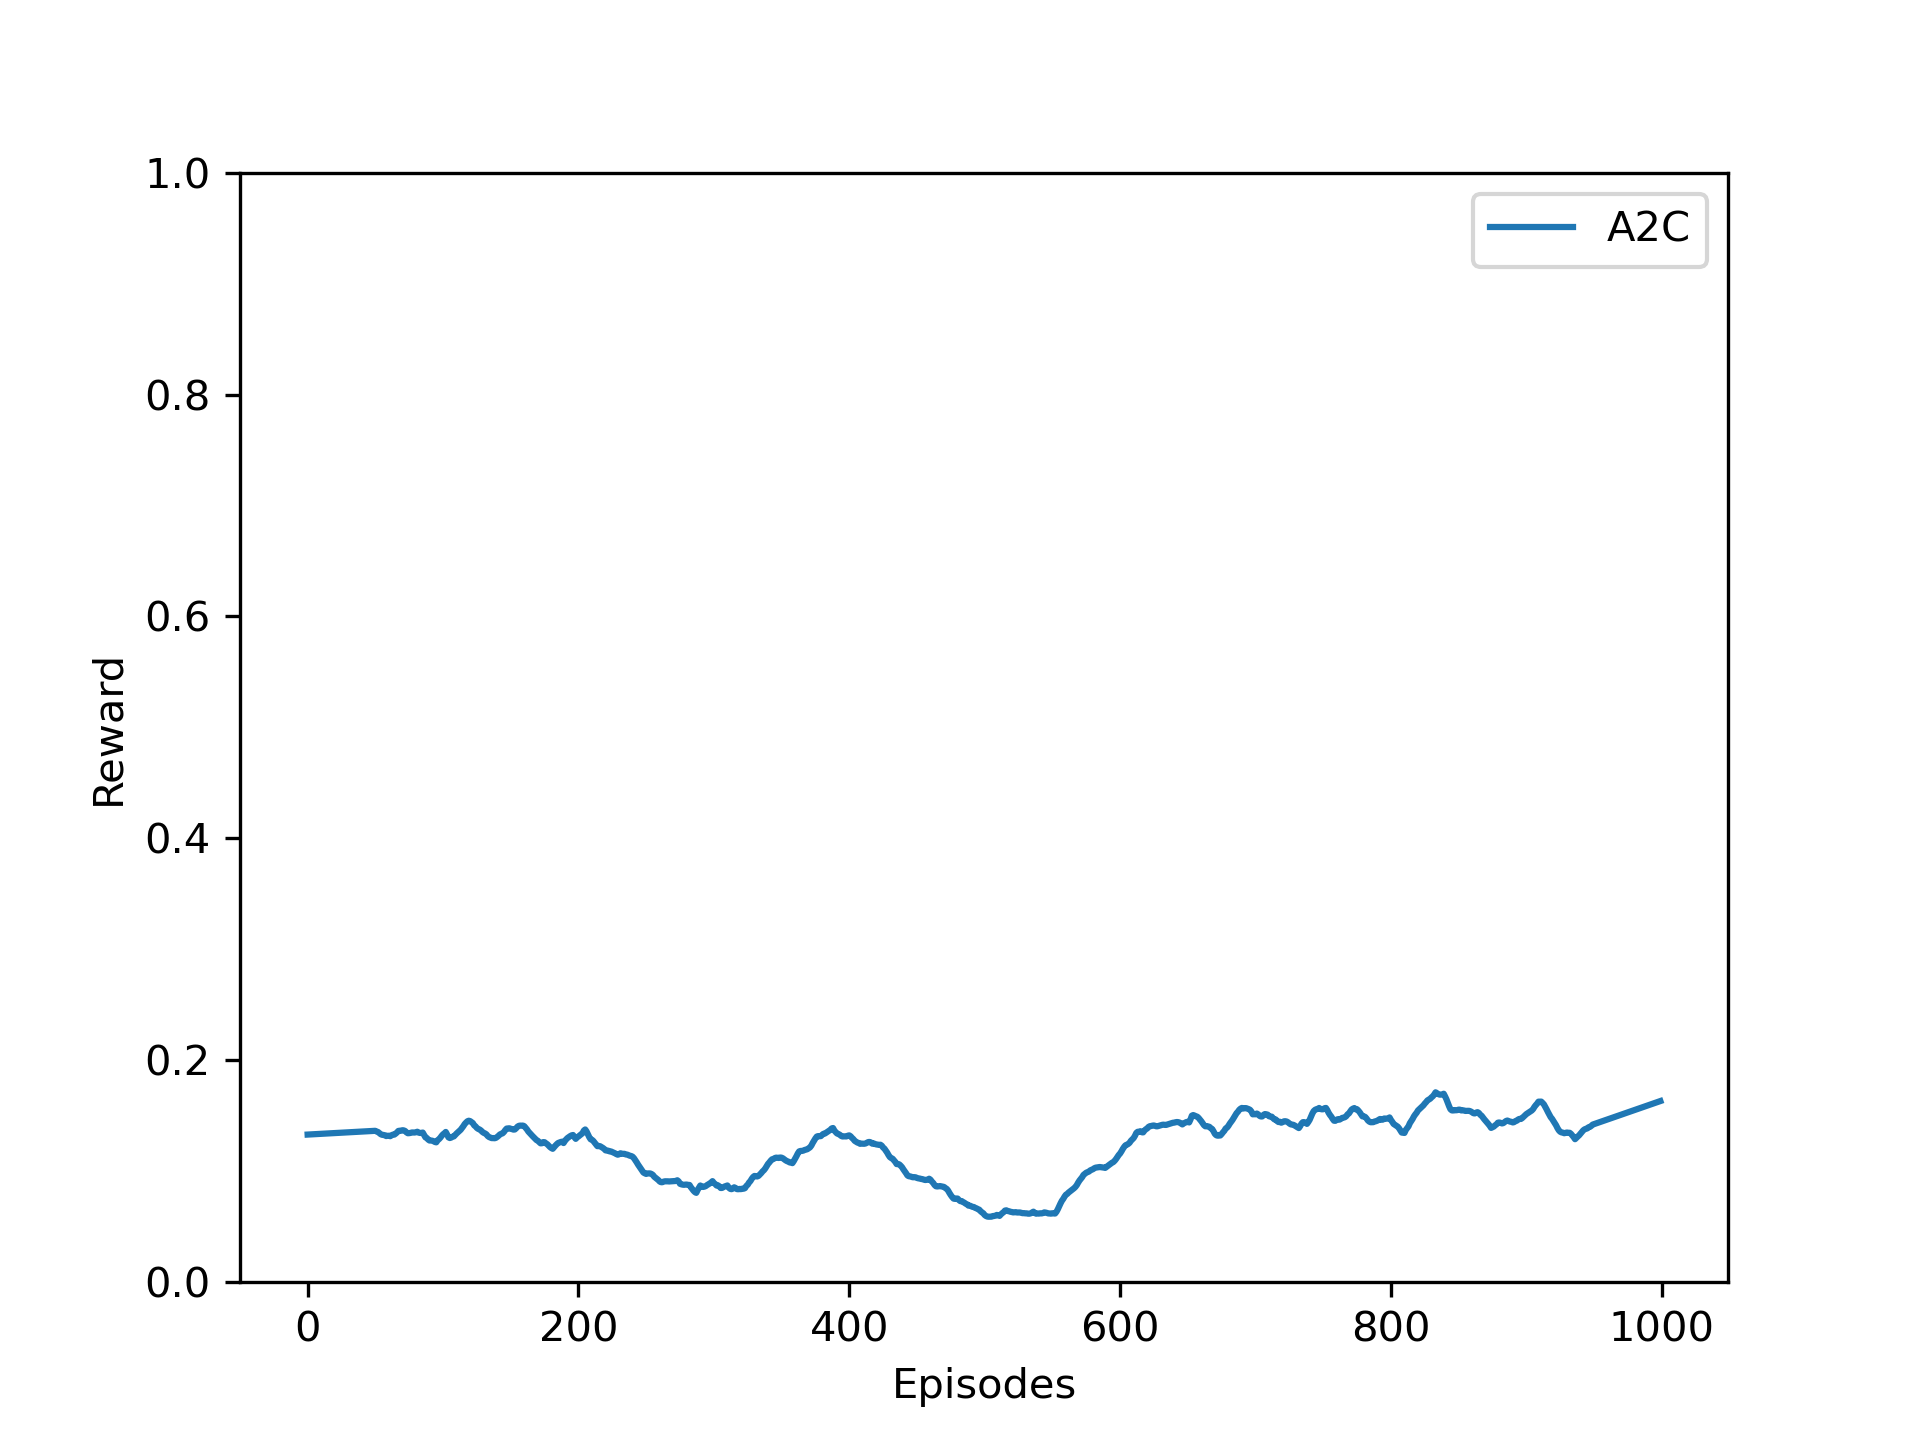
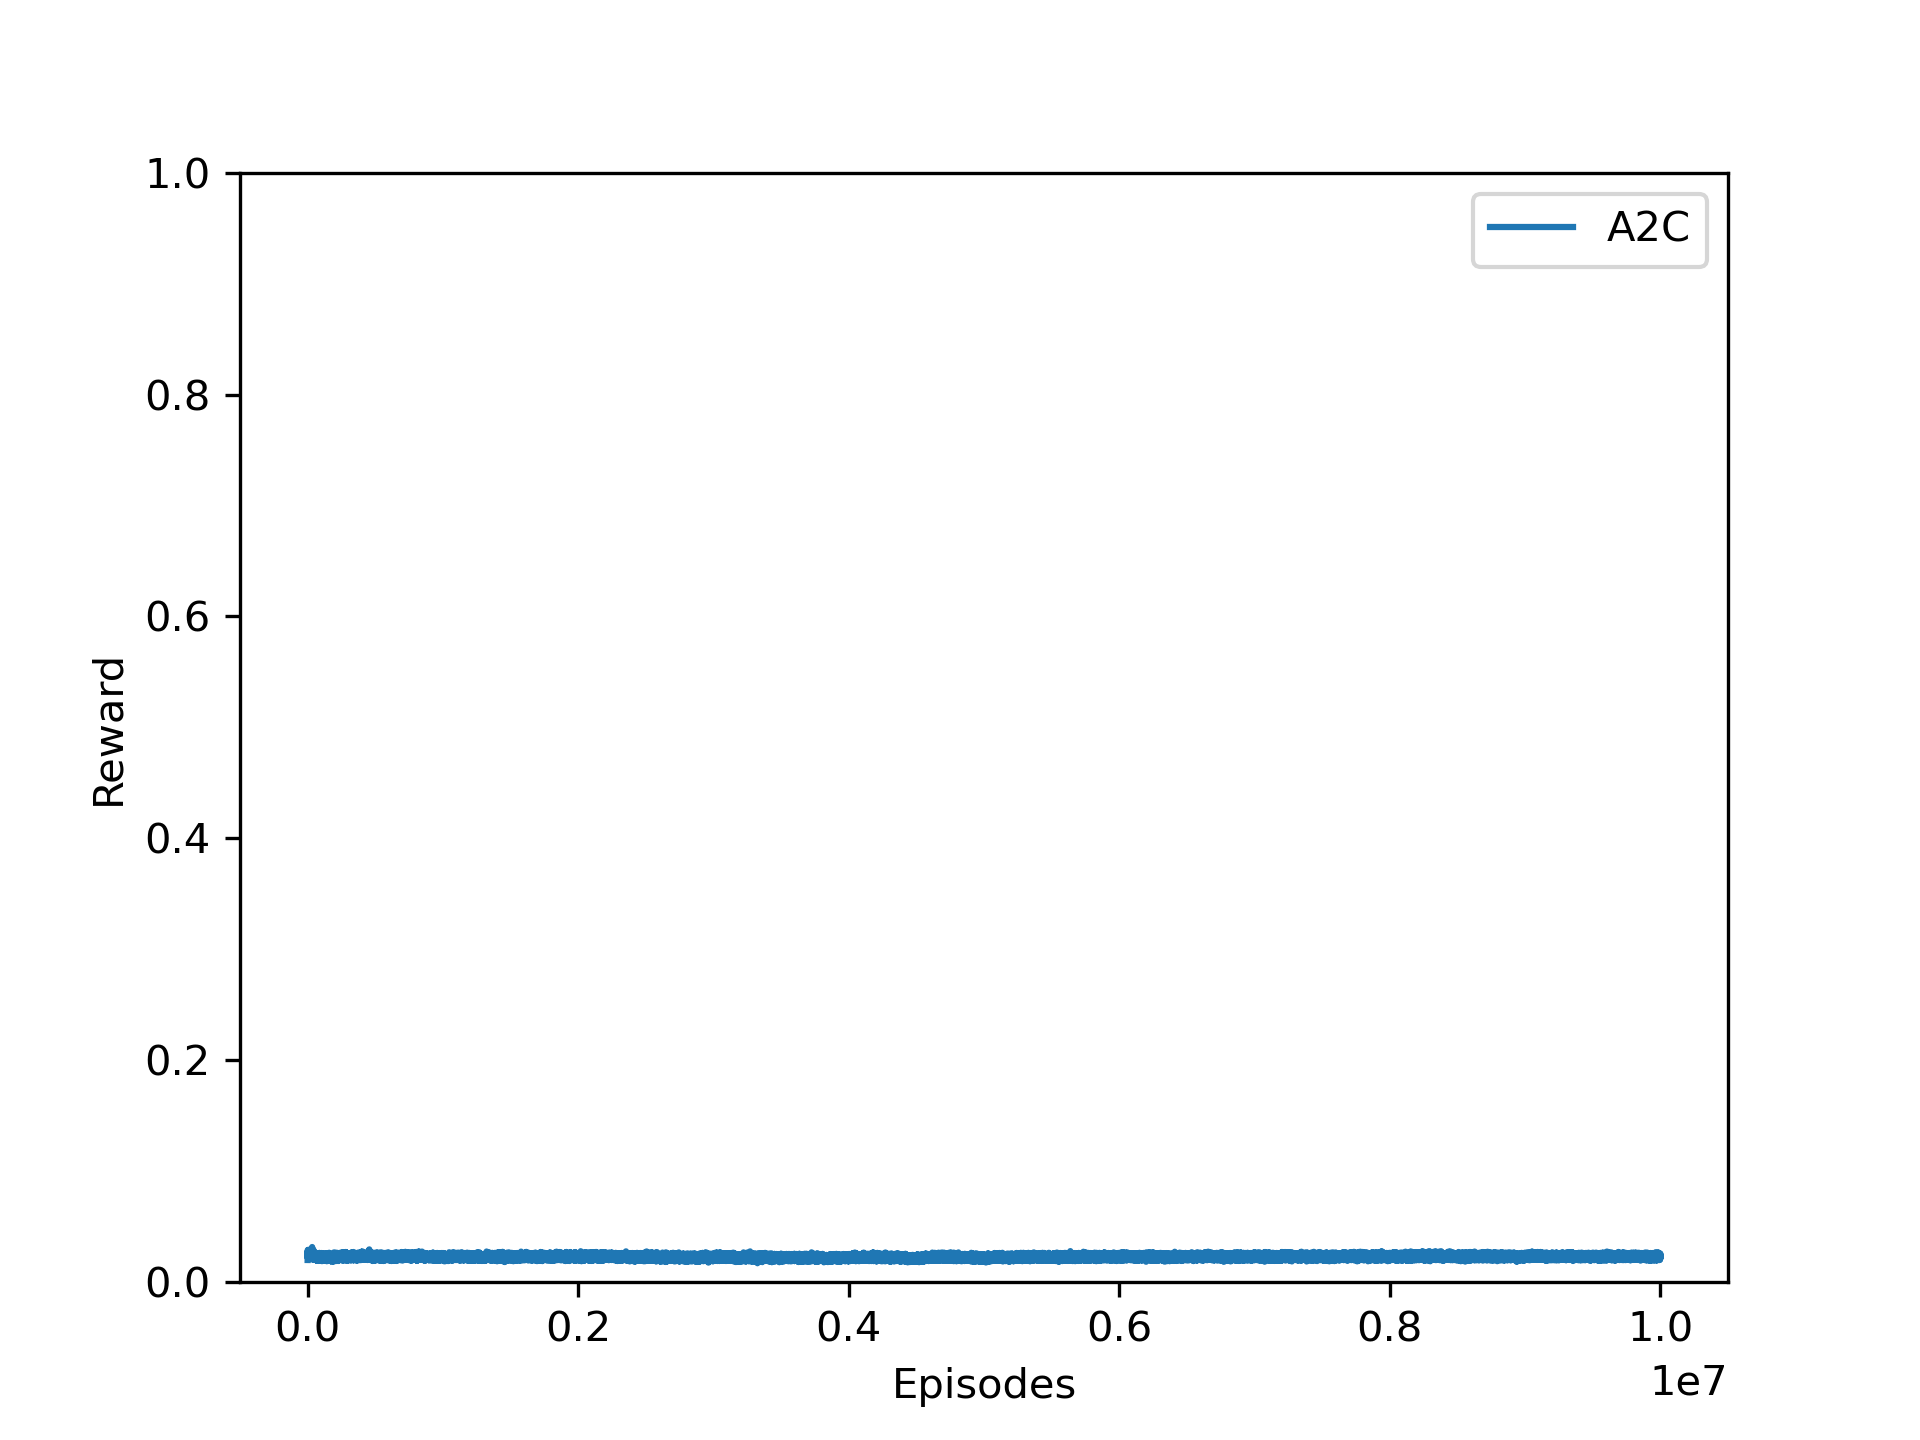
new train with A2C default env

diff --git a/A2C-train.py b/A2C-train.py
@@ -25,7 +25,7 @@ class CustomEnvWrapper(gym.Env):
     def __init__(self):
         # Initialize your Sharpening_AO_system environment here
         self.env = Sharpening_AO_system()
-        self.action_space = gym.spaces.Box(low=-0.3, high=0.3, shape=(4,), dtype=np.float32)
+        self.action_space = gym.spaces.Box(low=-0.3, high=0.3, shape=(400,), dtype=np.float32)
         self.observation_space = gym.spaces.Box(low=0, high=1., shape=self.env.observation_space.shape, dtype=np.float32)
 
     def step(self, action):
@@ -48,7 +48,7 @@ env = CustomEnvWrapper()
 # Create and train the TD3 model with the custom callback
 model = A2C("MlpPolicy", env, verbose=1)
 callback = RewardCallback()
-model.learn(total_timesteps=1000, callback=callback, progress_bar=True)
+model.learn(total_timesteps=10000000, callback=callback, progress_bar=True)
 
 # Save the trained model
 model.save("a2c_sharpening")
